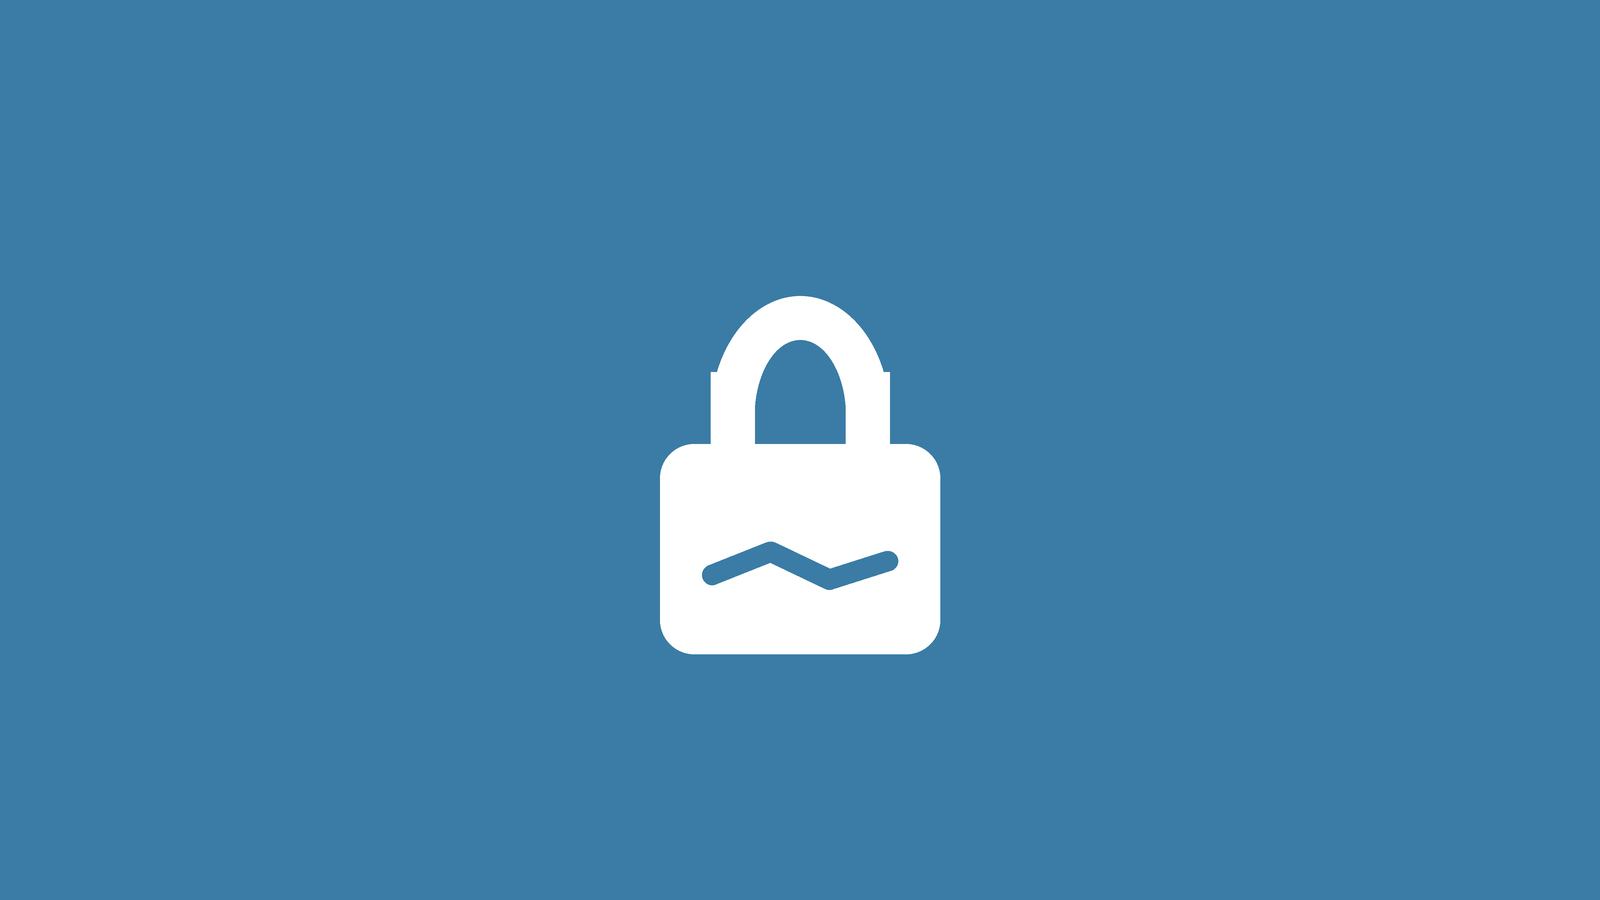
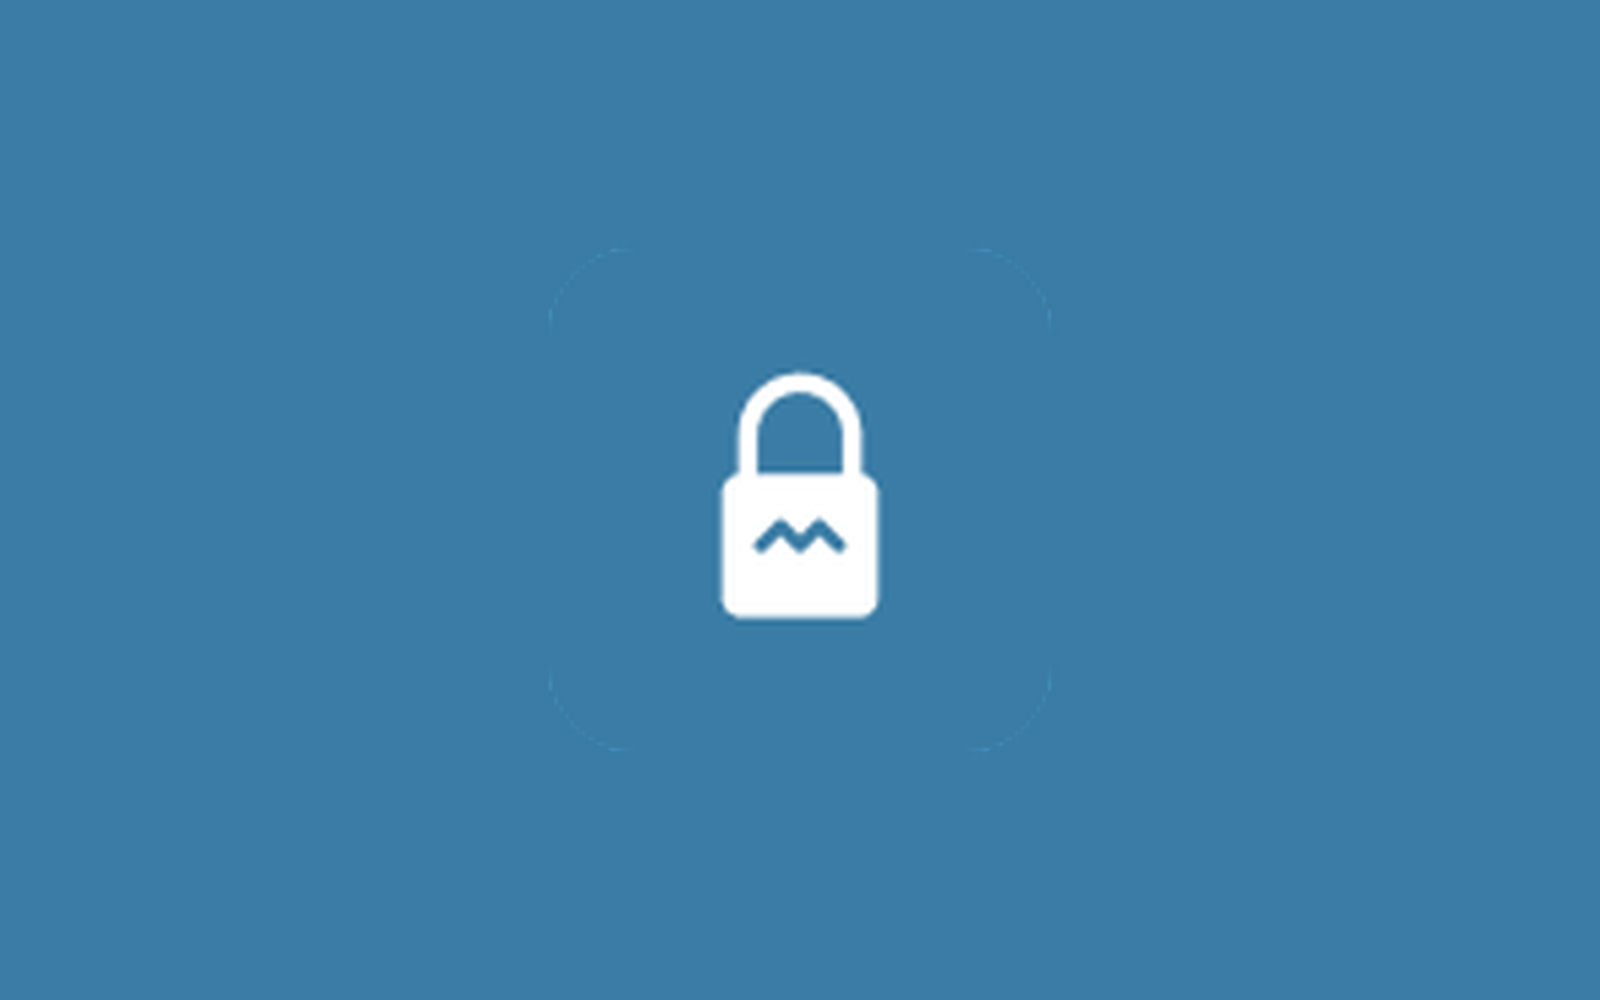
Unify Work card sizes and use clearer project images.
Show the castle on ParkSpotter, use the uploaded Dignity, Spotify,
and GymPal marks, and keep every card image in the same 8:5 frame
without stretching the art.

Changed region(s): [[0.4062, 0.3111, 0.5938, 0.7467]]

diff --git a/docs/projects.html b/docs/projects.html
@@ -45,7 +45,7 @@
         <section class="section tight">
             <div class="wrap work-grid">
                 <a class="work-card work-card--parkspotter" href="parkspotter.html">
-                    <img src="parkspotter-card.png" alt="ParkSpotter welcome screen with report, rewards, and cast member entry points." />
+                    <img src="disney.png" alt="ParkSpotter guest home over a nighttime castle, with report, rewards, and staff entry points." />
                     <div class="work-copy">
                         <div class="tags">
                             <span class="tag">Capstone</span>
@@ -57,7 +57,7 @@
                     </div>
                 </a>
 
-                <a class="work-card work-card--dignity" href="DataDignity.html">
+                <a class="work-card work-card--mark work-card--dignity" href="DataDignity.html">
                     <img src="dignity-lock-mark.png" alt="Data Dignity mark: a white padlock on blue." />
                     <div class="work-copy">
                         <div class="tags">
@@ -70,7 +70,7 @@
                     </div>
                 </a>
 
-                <a class="work-card work-card--spotify" href="Spotify.html">
+                <a class="work-card work-card--mark work-card--spotify" href="Spotify.html">
                     <img src="spotify-hub-mark.png" alt="Spotify Social Hub mark: a listener silhouette with headphones on Spotify green." />
                     <div class="work-copy">
                         <div class="tags">
@@ -83,8 +83,8 @@
                     </div>
                 </a>
 
-                <a class="work-card work-card--gympal" href="IUGymPal.html">
-                    <img src="gympal-mark.png" alt="IU GymPal mark: the crimson IU trident on black." />
+                <a class="work-card work-card--mark work-card--gympal" href="IUGymPal.html">
+                    <img src="gympal-mark.png" alt="IU GymPal mark: the crimson IU trident over a barbell." />
                     <div class="work-copy">
                         <div class="tags">
                             <span class="tag">Research</span>

diff --git a/docs/index.html b/docs/index.html
@@ -70,7 +70,7 @@
                 <div class="work-list">
                     <a class="work-item" href="parkspotter.html">
                         <div class="work-media">
-                            <img src="disney.png" alt="ParkSpotter guest home screen over a nighttime castle backdrop, with actions to report issues, view reports, and open rewards." />
+                            <img src="disney.png" alt="ParkSpotter guest home over a nighttime castle, with report, rewards, and staff entry points." />
                         </div>
                         <div class="work-copy">
                             <div class="tags">
@@ -84,9 +84,9 @@
                         </div>
                     </a>
 
-                    <a class="work-item" href="DataDignity.html">
+                    <a class="work-item work-item--mark work-item--dignity" href="DataDignity.html">
                         <div class="work-media">
-                            <img src="DataHome.png" alt="Data Dignity mobile dashboard showing a calm snapshot of storage, permissions, and recent activity." />
+                            <img src="dignity-lock-mark.png" alt="Data Dignity mark: a white padlock on blue." />
                         </div>
                         <div class="work-copy">
                             <div class="tags">
@@ -100,9 +100,9 @@
                         </div>
                     </a>
 
-                    <a class="work-item" href="Spotify.html">
+                    <a class="work-item work-item--mark work-item--spotify" href="Spotify.html">
                         <div class="work-media">
-                            <img src="SocialHub.png" alt="Spotify Social Hub feed showing friends sharing songs, captions, and playlist prompts inside the app." />
+                            <img src="spotify-hub-mark.png" alt="Spotify Social Hub mark: a listener silhouette with headphones on Spotify green." />
                         </div>
                         <div class="work-copy">
                             <div class="tags">

diff --git a/docs/styles.css b/docs/styles.css
@@ -412,14 +412,33 @@ p:last-child {
   color: inherit;
 }
 
+.work-media {
+  min-height: 16rem;
+  overflow: hidden;
+  background: var(--bg-2);
+}
+
 .work-item img,
 .work-media img {
   width: 100%;
   height: 100%;
   object-fit: cover;
-  object-position: top;
+  object-position: center;
   min-height: 16rem;
   background: var(--bg-2);
+}
+
+.work-item--mark img {
+  object-fit: contain;
+  object-position: center;
+}
+
+.work-item--dignity .work-media {
+  background: #3a7ca5;
+}
+
+.work-item--spotify .work-media {
+  background: #080808;
 }
 
 .work-copy {
@@ -488,45 +507,35 @@ p:last-child {
 
 .work-card img {
   width: 100%;
-  height: 14.5rem;
+  aspect-ratio: 8 / 5;
+  height: auto;
   object-fit: cover;
+  object-position: center;
   background: var(--bg-2);
+}
+
+.work-card--mark img {
+  object-fit: contain;
+}
+
+.work-card--parkspotter img {
+  object-position: center;
 }
 
 .work-card--caregiver img {
   object-position: top;
 }
 
-.work-card--parkspotter img {
-  height: 16.5rem;
-  object-fit: cover;
-  object-position: center 12%;
-  background: #1a3354;
-}
-
-@media (max-width: 720px) {
-  .work-card--parkspotter img {
-    object-fit: contain;
-    object-position: center;
-  }
-}
-
 .work-card--spotify img {
-  object-fit: cover;
-  object-position: center;
   background: #080808;
 }
 
 .work-card--dignity img {
-  object-fit: cover;
-  object-position: center;
   background: #3a7ca5;
 }
 
 .work-card--gympal img {
-  object-fit: cover;
-  object-position: center;
-  background: #000;
+  background: var(--bg);
 }
 
 .work-card .work-copy {
@@ -541,8 +550,8 @@ p:last-child {
   }
 
   .work-grid > .work-card:last-child:nth-child(odd) img {
-    height: 100%;
-    min-height: 16rem;
+    height: auto;
+    min-height: 0;
   }
 }
 
@@ -1207,7 +1216,6 @@ p:last-child {
   .work-item img,
   .work-media img {
     min-height: 13rem;
-    max-height: 16rem;
   }
 
   .process,
